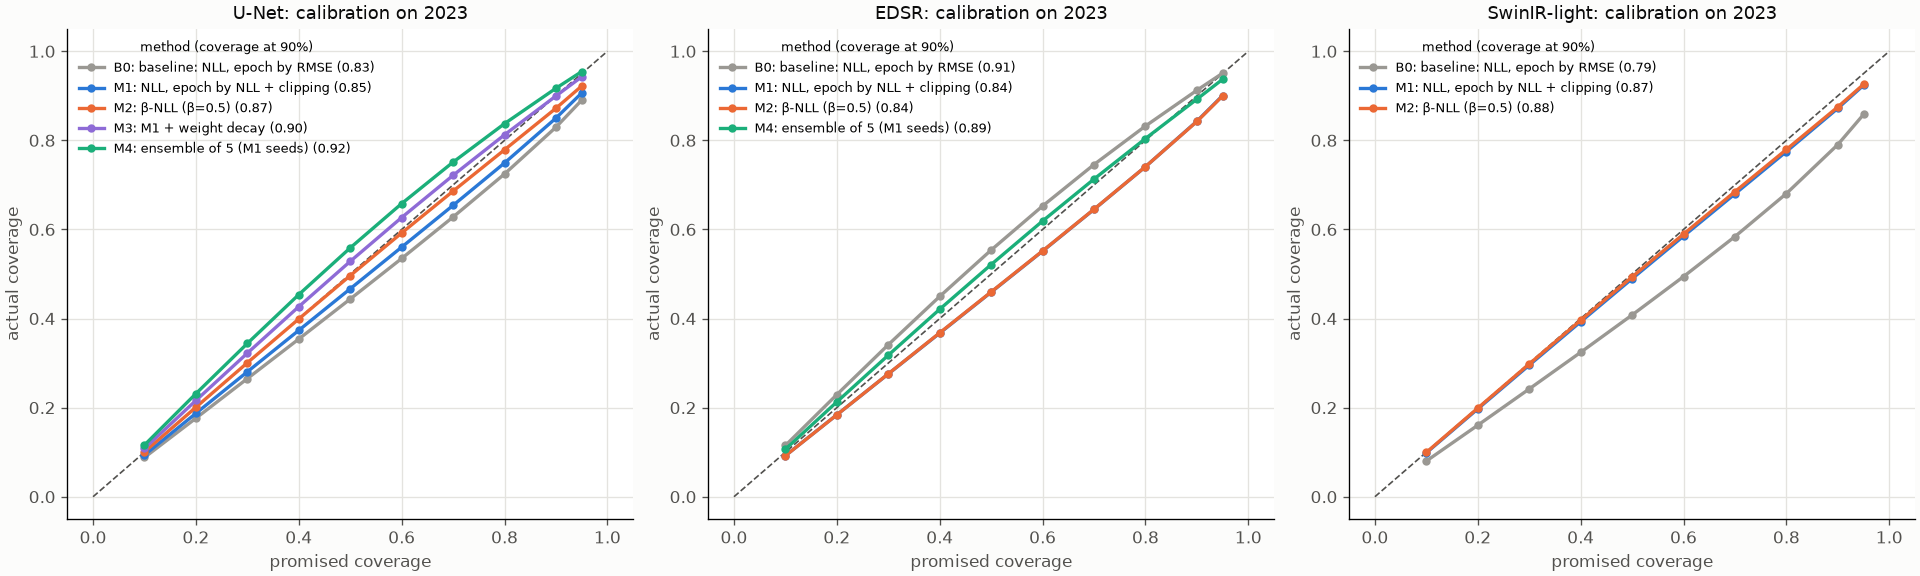
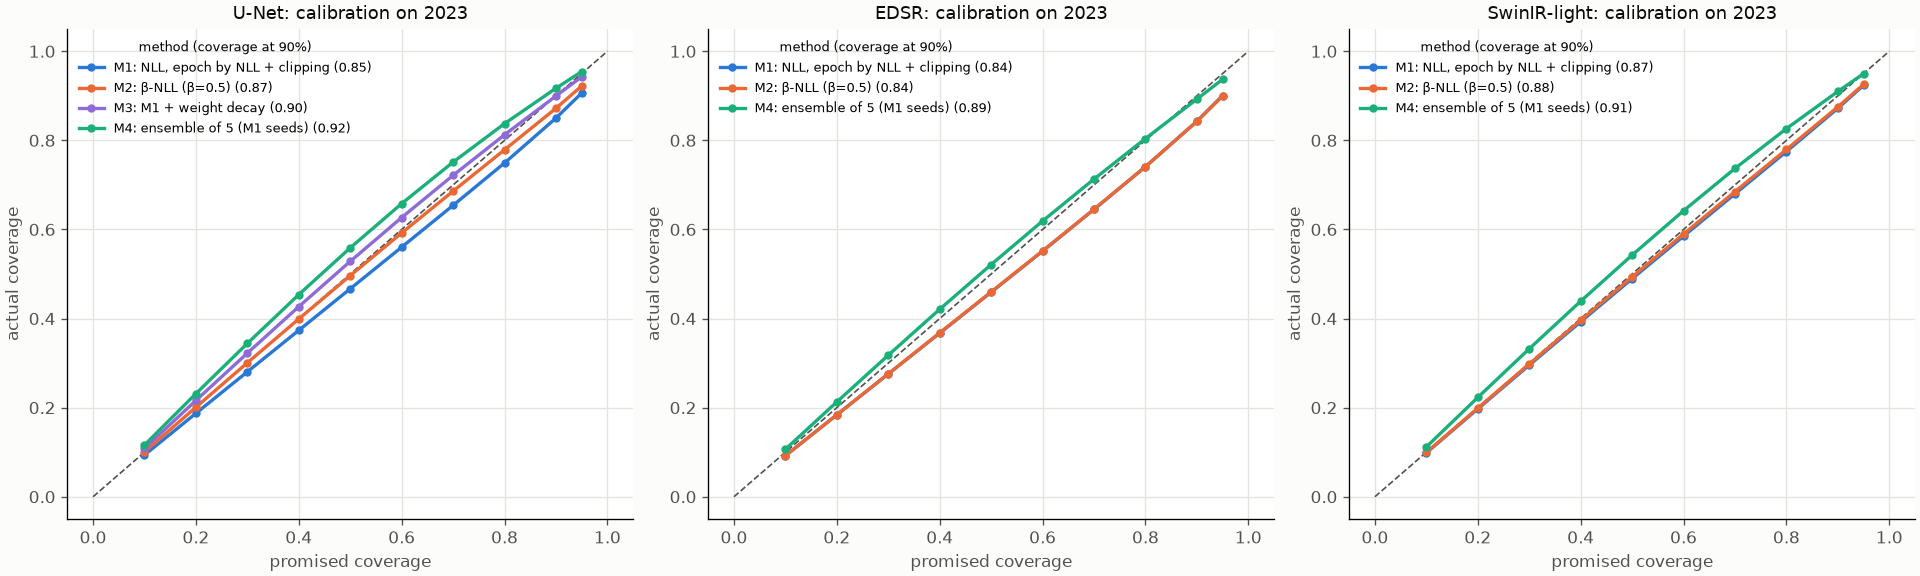
ran SWinIR 5 more times to test how good model is

diff --git a/docs/year_split_results.md b/docs/year_split_results.md
@@ -93,6 +93,21 @@ Add `--consistency` to each for the average-back rule. That's 6 runs in total.
 - Every best epoch is well before 200 (40–140), so 200 epochs is enough.
 - The gain is about 3× larger than on the June split (−15% vs −5%). That's because there's about 40× more training data.
 
+**With 5 seeds per model (M1 recipe: 150 epochs, NLL, epoch picked by 2022 NLL, gradient clip 1.0), scored on 2023:**
+
+| Model (5 seeds, M1) | RMSE ↓ | PSNR ↑ | SSIM ↑ | Detail ratio | Coverage90 (0.90) | Cal. error ↓ |
+|---|---|---|---|---|---|---|
+| Bicubic | 0.0126 | 37.97 | 0.927 | 0.49 | – | – |
+| U-Net | 0.0110 ± <0.0001 | 39.13 ± 0.03 | 0.948 ± 0.001 | 0.70 ± 0.01 | 0.878 ± 0.018 | 0.015 ± 0.011 |
+| EDSR | 0.0110 ± <0.0001 | 39.20 ± 0.03 | 0.948 ± 0.001 | 0.69 ± 0.01 | 0.852 ± 0.011 | 0.030 ± 0.010 |
+| SwinIR-light | **0.0107 ± <0.0001** | **39.40 ± 0.02** | **0.951 ± <0.001** | **0.72 ± 0.01** | 0.874 ± 0.017 | 0.018 ± 0.009 |
+
+- **SwinIR-light really is the best, not a lucky run.** All 5 of its seeds have RMSE 0.0107. Its PSNR lead over EDSR (+0.20 dB) is about 7× the seed-to-seed spread (±0.03).
+- **U-Net and EDSR are tied on accuracy.**
+- **Every seed of every model beats bicubic** by about 13–15% in RMSE.
+- **About the ± values:** std is the sample std over seeds 0–4. The logs print RMSE to 4 decimals, so "< 0.0001" means all 5 seeds printed the same value.
+- **Training settings:** SwinIR seed 0 was evaluated every 5 epochs and seeds 1–4 every 10. U-Net and EDSR used every 5 for all seeds.
+
 ### RQ2: does the average-back rule reduce made-up detail without smoothing the map?
 **It keeps the output faithful to the input at no cost.**
 - Consistency error drops from 6e-04–2e-03 to **8.7e-09**: the sharp map now averages back to the blurry input almost exactly. (The rule is a hard correction applied after the network, so this is by construction.)
@@ -146,7 +161,7 @@ Add `--consistency` to each for the average-back rule. That's 6 runs in total.
 - **Cloud-edge misses** stay at about 11% for every method, so the λ̂ calibration is still needed.
 
 ### Caveat
-Each model was trained **once, with one seed**. Small gaps (U-Net vs SwinIR, rule vs no rule for SwinIR) could be run-to-run noise. The gap to bicubic is consistent across all six runs, so that part is solid.
+The original six runs (B0) were each trained **once, with one seed**, so small gaps between them (e.g. rule vs no rule for SwinIR) could be run-to-run noise. The 5-seed M1 runs in the RQ1 table above settle the model ranking: SwinIR-light is best, and U-Net and EDSR are tied. The rule-vs-no-rule comparison (RQ2) still has only one seed each.
 
 ---
 
